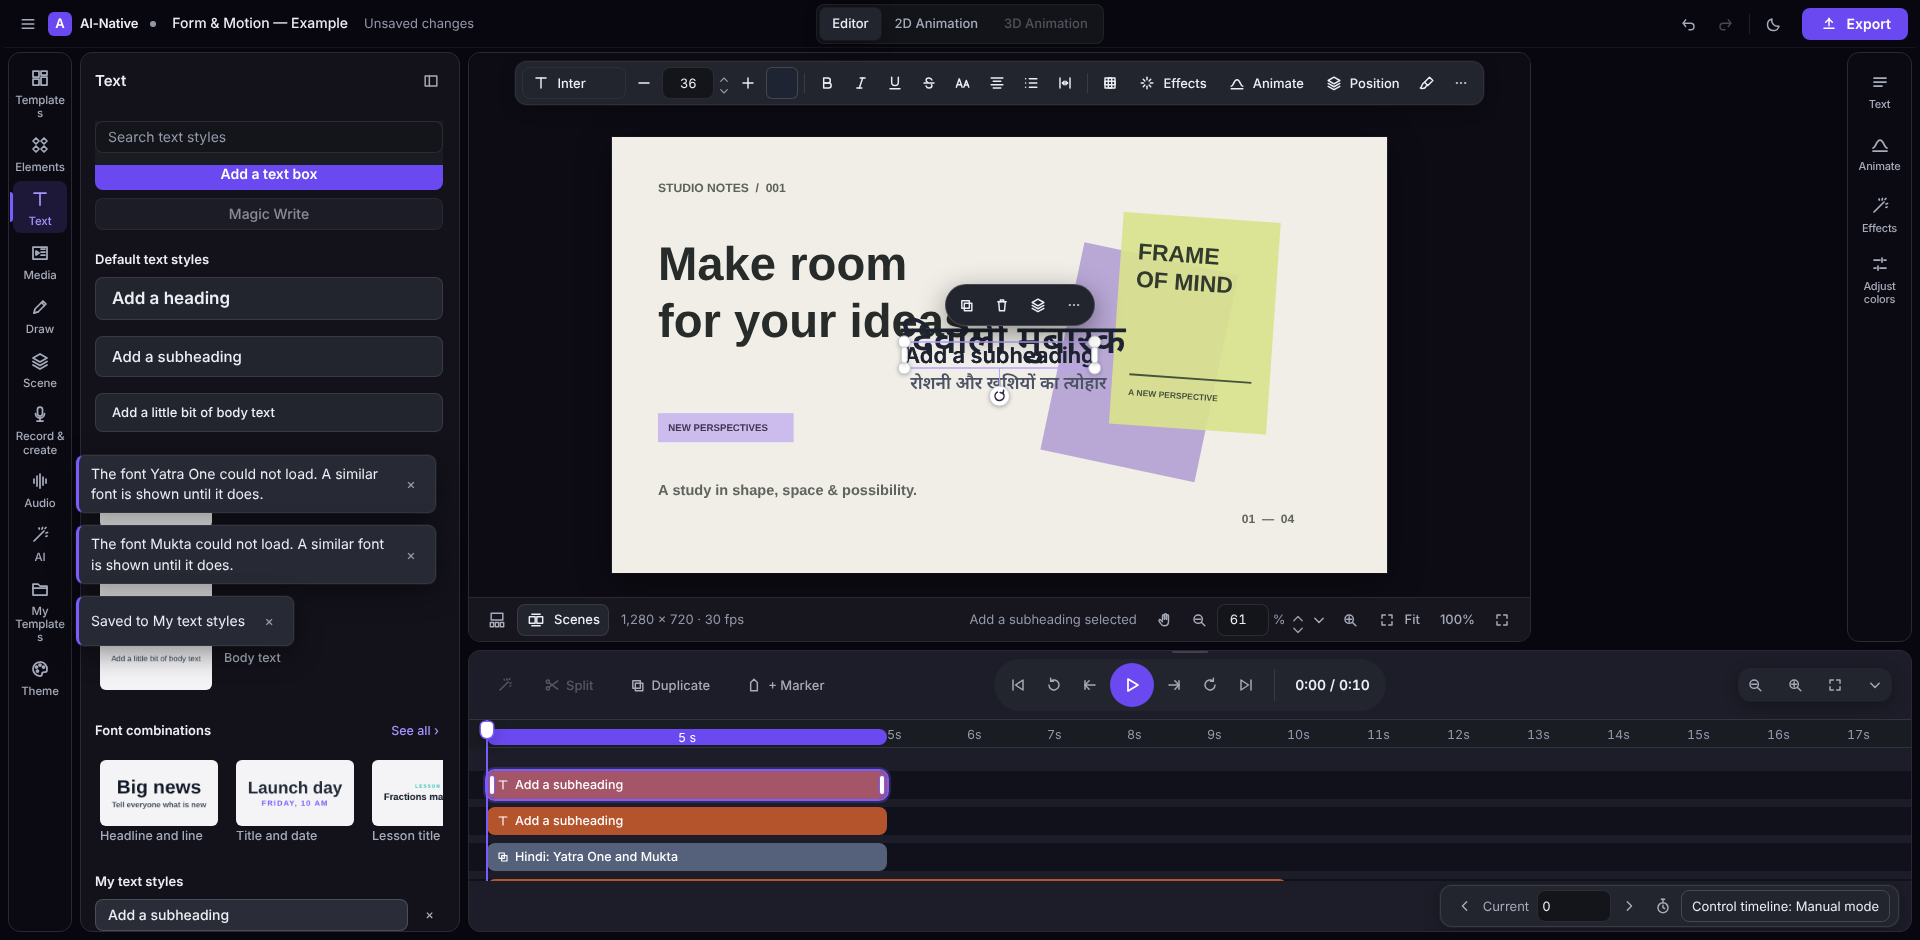
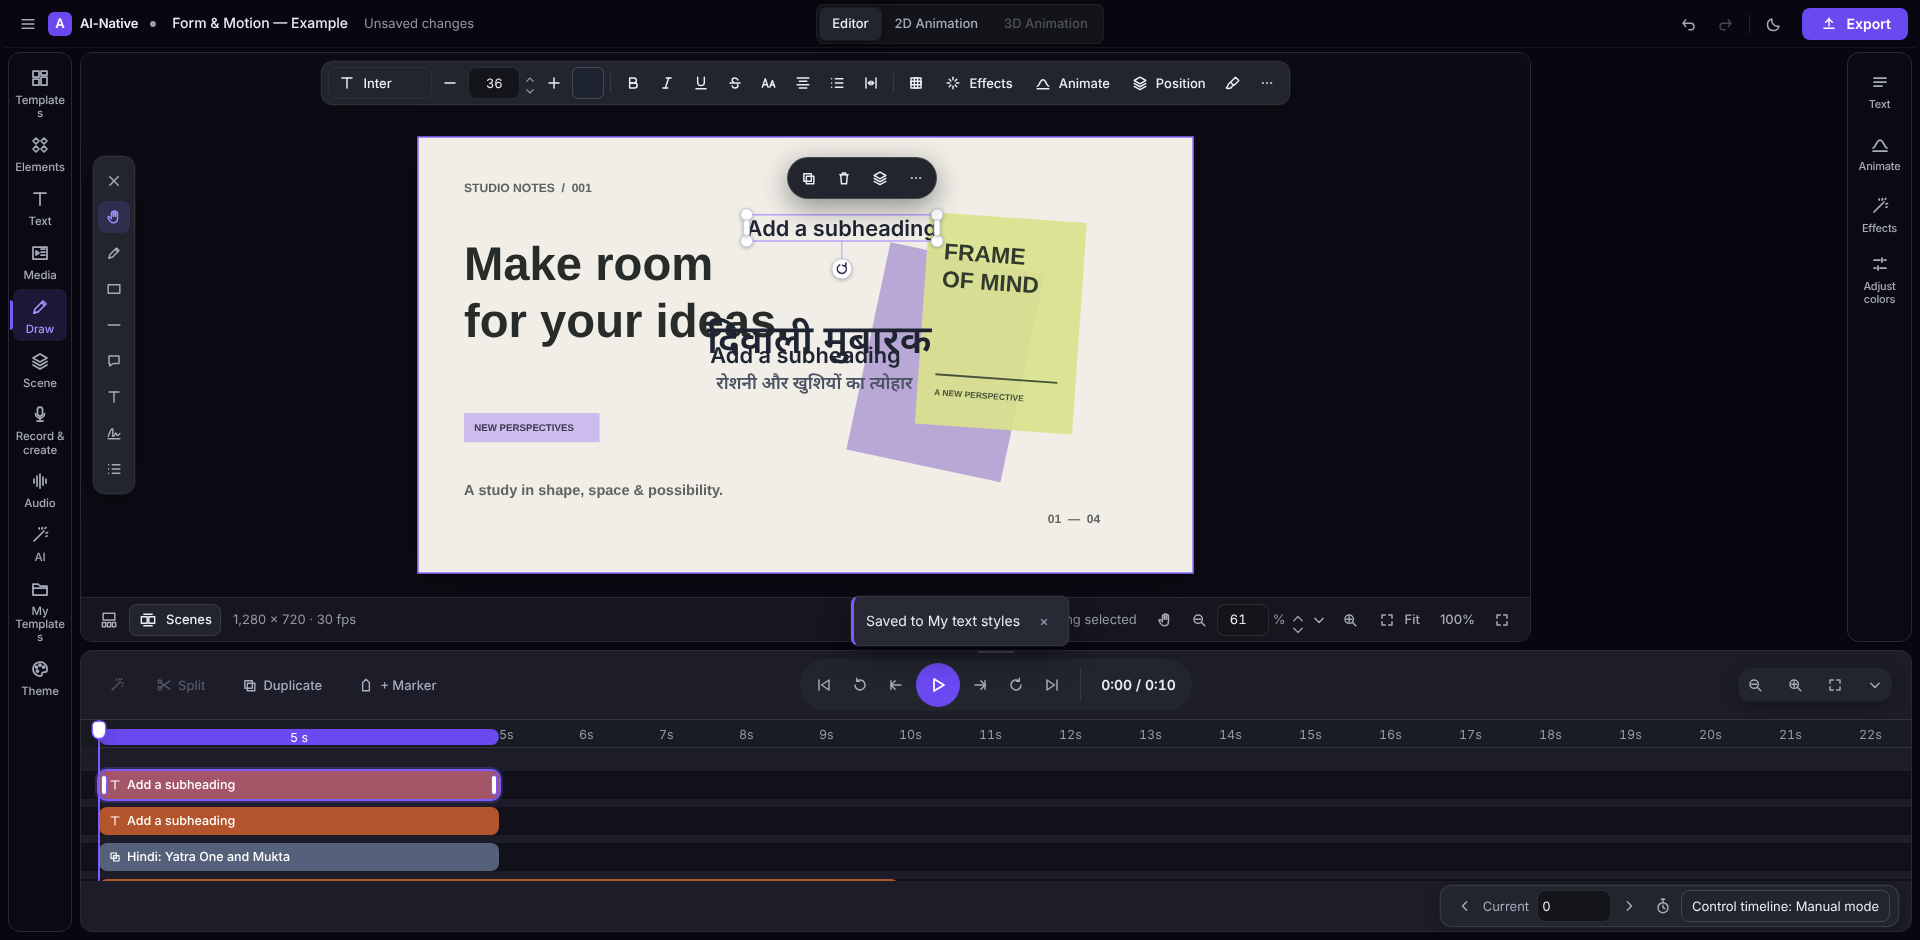
fix(text): remove My text styles section, Magic write tooltip [FX5-005]
Claude-Session: https://claude.ai/code/session_01Teysfnit13zjM2mog8bSxY

diff --git a/src/ui/library-panel.ts b/src/ui/library-panel.ts
@@ -6,9 +6,7 @@ import { drags } from './drag-controller';
 import {
   combinationsFor,
   DEFAULT_TEXT_ITEMS,
-  deleteMyTextStyle,
   FONT_COMBINATIONS,
-  myTextStyles,
   onMyTextStylesChange,
   type MyTextStyle,
 } from './text-styles';
@@ -885,7 +883,7 @@ export function mountLibraryPanels(
             magic.className = 'button browse-secondary';
             magic.dataset.action = 'magic-write';
             magic.setAttribute('aria-disabled', 'true');
-            magic.title = later(10, 'AI-001');
+            magic.title = t('text.magicWriteNeedsAi');
             magic.textContent = t('text.magicWrite');
             host.append(add, magic);
           },
@@ -943,45 +941,8 @@ export function mountLibraryPanels(
                   ],
           }),
         },
-        // FINAL3 T5: the user's saved text styles.
-        {
-          id: 'my-text-styles',
-          title: t('text.myStyles'),
-          layout: 'list',
-          render: (host) => {
-            const styles = myTextStyles();
-            if (!styles.length) {
-              const empty = document.createElement('p');
-              empty.className = 'empty-state';
-              empty.textContent = t('text.myStylesEmpty');
-              host.append(empty);
-              return;
-            }
-            for (const style of styles) {
-              const row = document.createElement('div');
-              row.className = 'my-text-style';
-              const button = document.createElement('button');
-              button.type = 'button';
-              button.className = 'my-text-style-use';
-              button.dataset.styleId = style.id;
-              button.textContent = style.name;
-              const font = style.layer.properties.fontFamily;
-              if (font?.type === 'string')
-                button.style.fontFamily = `"${font.value}", sans-serif`;
-              button.onclick = () => options.insertTextStyle?.(style);
-              const remove = document.createElement('button');
-              remove.type = 'button';
-              remove.className = 'ghost sm';
-              remove.dataset.action = 'my-text-style-delete';
-              remove.setAttribute('aria-label', t('text.myStyleDelete'));
-              remove.title = t('text.myStyleDelete');
-              remove.textContent = '×';
-              remove.onclick = () => deleteMyTextStyle(style.id);
-              row.append(button, remove);
-              host.append(row);
-            }
-          },
-        },
+        // FIX5 C5: saved text lives in My Templates (canvas right-click, Save to
+        // My Templates) and in the Draw palette's Text choices.
         {
           id: 'dynamic',
           title: t('text.section.dynamic'),

diff --git a/e2e/final3-text.spec.ts b/e2e/final3-text.spec.ts
@@ -1,6 +1,13 @@
 import path from 'node:path';
 import type { Page } from '@playwright/test';
-import { test, expect, hook, showCategory, seekKeep } from './fixtures';
+import {
+  test,
+  expect,
+  hook,
+  showCategory,
+  seekKeep,
+  toScreen,
+} from './fixtures';
 import { exported, meanDiff, preview } from './fx-helpers';
 
 // FINAL3 Part B: the Canva text rebuild at 1920 × 940: the box is as big as
@@ -312,10 +319,18 @@ test('[FN3-011] the Text tab: search, the three default styles (click and drag),
       hasText: 'Save as my text style',
     })
     .click();
-  const mine = host.locator('.my-text-style-use');
-  await expect(mine).toHaveCount(1);
+  // FIX5 C5: the Text panel has no My text styles section any more; the
+  // saved style is offered by the Draw palette's Text tool and adds a copy.
+  await expect(host.locator('.my-text-style-use')).toHaveCount(0);
+  await expect(
+    host.locator('[data-action="my-text-style-delete"]'),
+  ).toHaveCount(0);
   const count = (await hook(page)).project.compositions[0]!.layers.length;
-  await mine.click();
+  await showCategory(page, 'Draw');
+  await page.locator('#draw-palette [data-palette-tool="text"]').click();
+  await page.locator('#draw-choices [data-choice^="style:"]').click();
+  const point = await toScreen(page, 700, 150);
+  await page.mouse.click(point.x, point.y);
   await expect
     .poll(async () => (await hook(page)).project.compositions[0]!.layers.length)
     .toBe(count + 1);

diff --git a/e2e/fix5.spec.ts b/e2e/fix5.spec.ts
@@ -271,3 +271,24 @@ test('[FX5-004] Draw palette: a chosen shape, line, note colour, text style and 
   expect((await layers()).length).toBe(count);
   await page.screenshot({ path: 'reports/fix5/c4-flyout.png' });
 });
+
+// C5: the Text panel has no My text styles section; Magic write explains itself.
+test('[FX5-005] Text panel: no My text styles section; Magic write says it needs the AI service; Dynamic text stays disabled', async ({
+  page,
+}) => {
+  await page.goto('/');
+  await showCategory(page, 'Text');
+  const host = page.locator('#library-text');
+  await expect(host.locator('.browse-section-head h3').first()).toBeVisible();
+  await expect(host.locator('.browse-section-head h3')).not.toContainText([
+    'My text styles',
+  ]);
+  await expect(host.locator('[data-action="magic-write"]')).toHaveAttribute(
+    'title',
+    'Needs the AI service (planned)',
+  );
+  await expect(host.locator('[data-action="dynamic-text"]')).toHaveAttribute(
+    'aria-disabled',
+    'true',
+  );
+});

diff --git a/e2e/i2-browse.spec.ts b/e2e/i2-browse.spec.ts
@@ -282,7 +282,7 @@ test('[TXT-038] Text: Add a text box, default styles (click and drag), sections 
   const host = panel(page, 'text');
   await expect(host.locator('[data-action="magic-write"]')).toHaveAttribute(
     'title',
-    'Planned: Wave 10 (AI-001)',
+    'Needs the AI service (planned)',
   );
   await expect(host.locator('[data-action="dynamic-text"]')).toHaveAttribute(
     'aria-disabled',
@@ -297,7 +297,6 @@ test('[TXT-038] Text: Add a text box, default styles (click and drag), sections 
   await expect(host.locator('.browse-section-head h3')).toContainText([
     'Default text styles',
     'Font combinations',
-    'My text styles',
     'Dynamic text',
     'Plain text',
     'Text styles',
